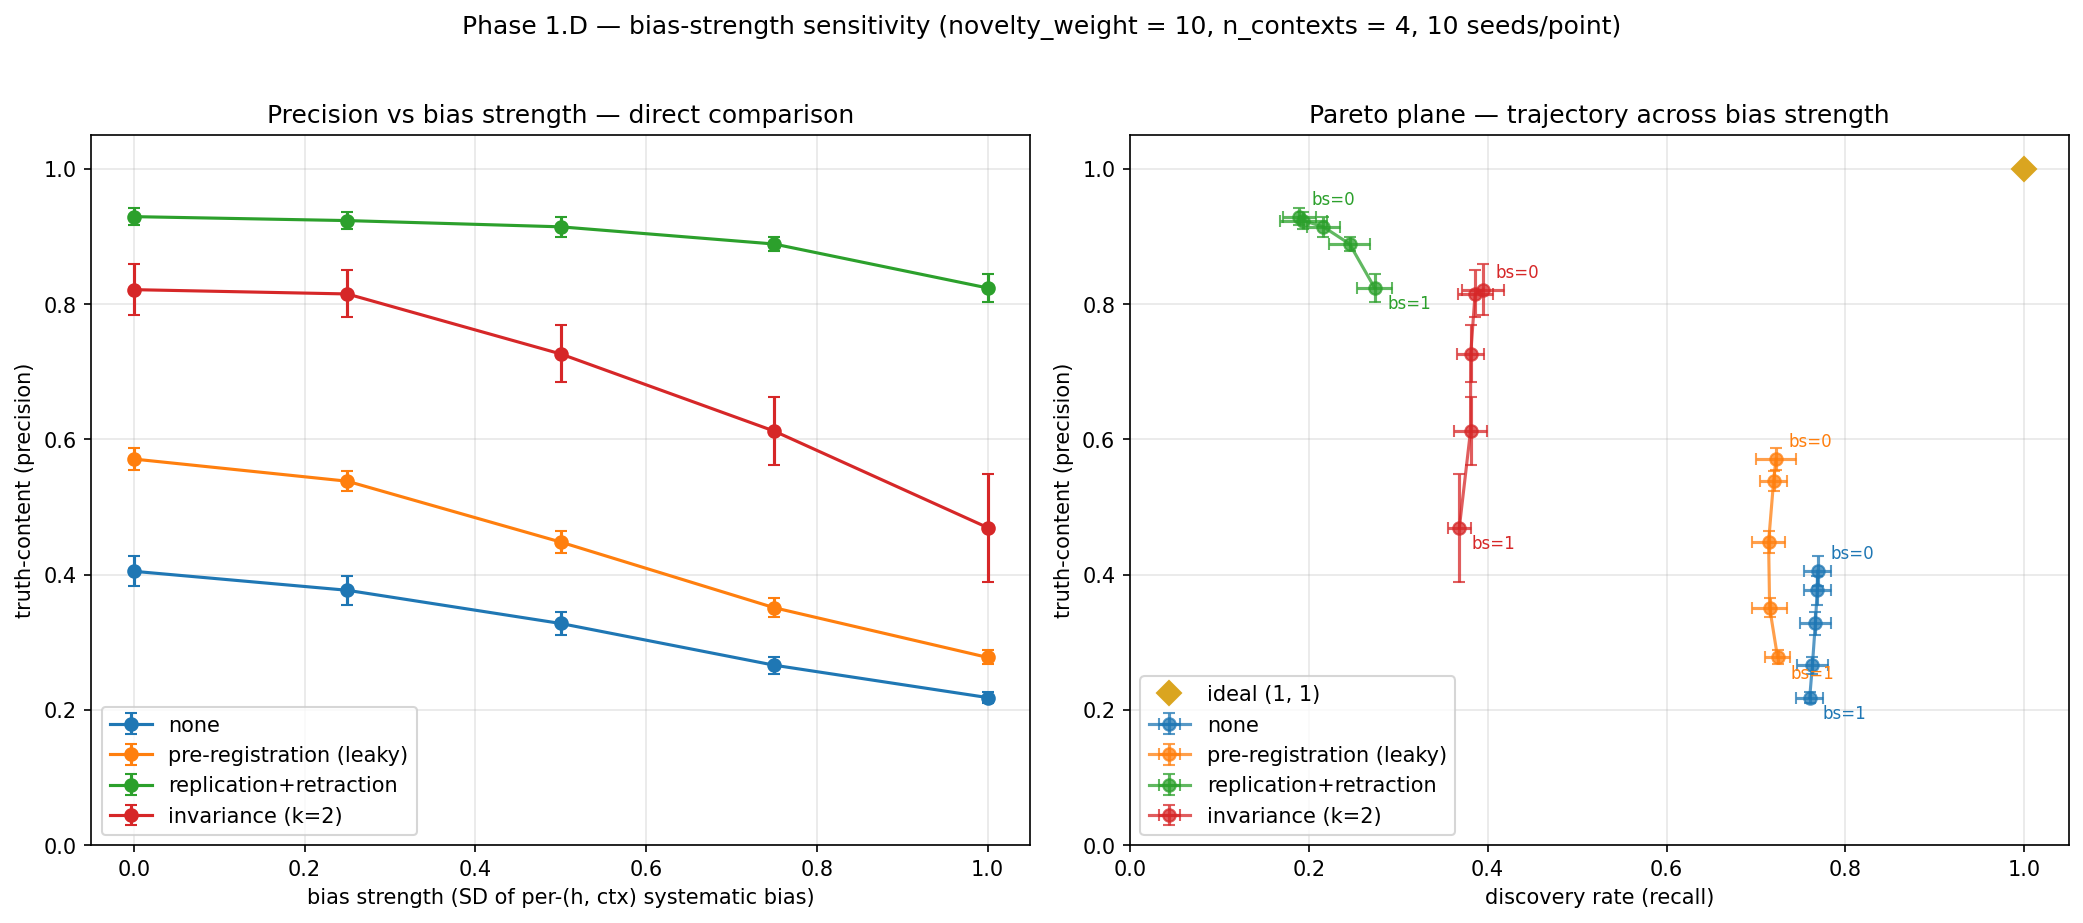
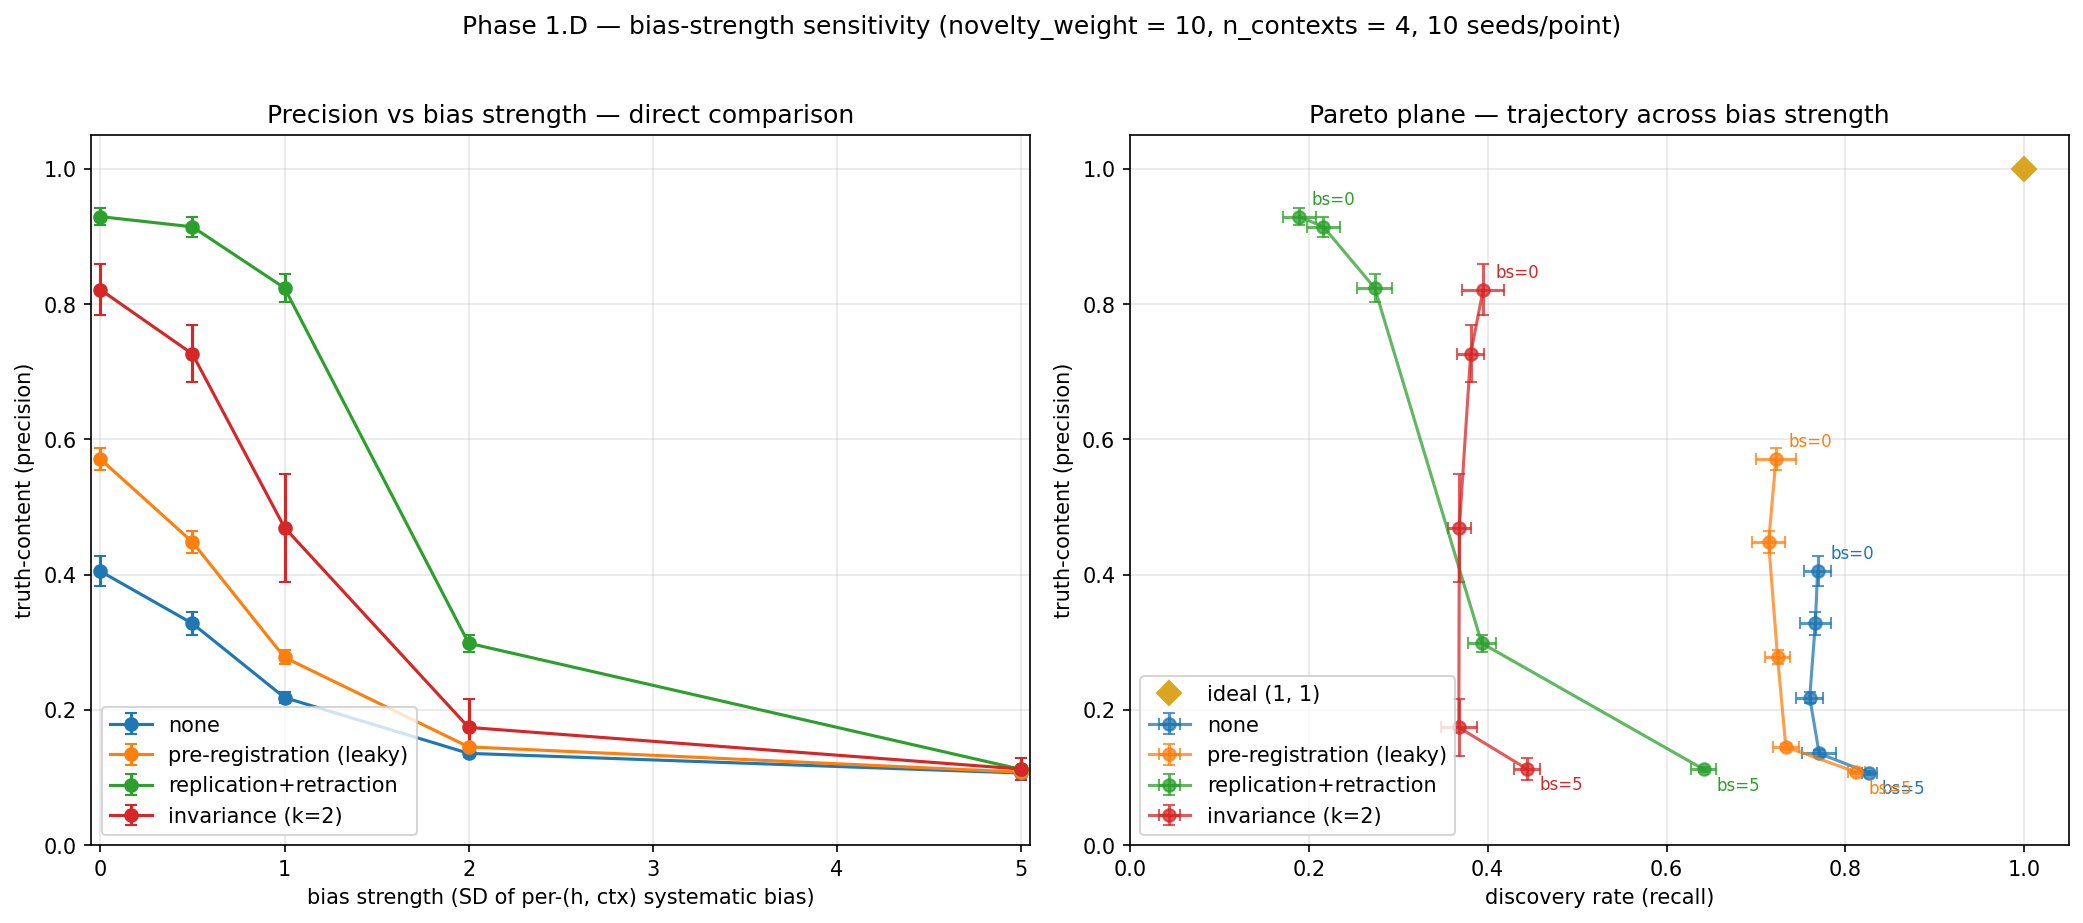
Phase 1.D extended: bs sweep to {0, 0.5, 1.0, 2.0, 5.0}
Tests the high-correlation regime (corr up to 0.96) where same-base R+R
was mechanistically expected to break.

Findings:
1. The R+R cliff is real and sharp. R+R precision falls from 0.82 at
   bs=1.0 to 0.30 at bs=2.0 - a single doubling triggers a collapse.
   Mechanism: P(|bias| > z_crit) crosses ~30% between bs=1 and bs=2,
   making bias alone sufficient to drive significance; audit inherits
   the same lucky bias and confirms FPs.

2. Invariance(k=2) collapses faster than R+R across the moderate range.
   Gap widens against invariance up to bs=1, then narrows as R+R falls.
   They converge at bs=5 (both at ~0.11) - the predicted invariance
   crossover does not occur at k=2.

3. At bs=5, all mitigations collapse to the none precision floor (0.11)
   but cost recall. none Pareto-dominates all four mitigations at this
   regime - the actionable insight is that mitigations have a "useful
   band" of bias_strengths, above which they cost throughput without
   precision gain.

Updates:
- example-runs/README Phase 1.D: extended table, new "where the data
  points" structure (3 dynamics), updated "where this points next" with
  useful-band framing.
- FINDINGS.md Finding 2: extended table with full bs range showing
  convergence at bs=5.
- FINDINGS.md Finding 3: rewritten as "R+R has a sharp cliff between
  bs=1 and bs=2", status promoted from preliminary to established.
- FINDINGS.md Finding 8 (new): "At extreme bias, no mitigation provides
[…]

diff --git a/scripts/run_bias_sensitivity.py b/scripts/run_bias_sensitivity.py
@@ -62,7 +62,16 @@ from paper_chase.results_io import (
 
 
 # ---- Sweep parameters ----
-BIAS_STRENGTHS = [0.0, 0.25, 0.5, 0.75, 1.0]   # SD of per-(h, ctx) systematic bias
+# Extended range to test the high-correlation regime where R+R is
+# mechanistically expected to break (same-base audit can't distinguish
+# lucky-bias FPs from TPs when bias dominates the signal). Correlation
+# between same-(h, ctx) studies = bias_strength² / (1 + bias_strength²):
+#   bs=0.0  → corr=0.00 (independent)
+#   bs=0.5  → corr=0.20
+#   bs=1.0  → corr=0.50 (the previous sweep's max)
+#   bs=2.0  → corr=0.80 (LLM-instance-like regime)
+#   bs=5.0  → corr=0.96 (extreme; same-LLM near-deterministic)
+BIAS_STRENGTHS = [0.0, 0.5, 1.0, 2.0, 5.0]     # SD of per-(h, ctx) systematic bias
 N_SEEDS = 10
 NOVELTY_WEIGHT = 10.0          # mid-pressure: dynamic is fully developed but not extreme
 REPLICATION_WEIGHT = 1.0

diff --git a/FINDINGS.md b/FINDINGS.md
@@ -60,14 +60,25 @@ across two regime sweeps).
 
 ## 2. k=2 invariance is the structurally weakest version of the multi-context filter
 
-**Regime.** Same as Phase 1.D — bias_strength ∈ [0, 1.0], novelty_weight =
-10, n_contexts = 4, uniform attention.
+**Regime.** Phase 1.D extended — bias_strength ∈ {0, 0.5, 1.0, 2.0, 5.0},
+novelty_weight = 10, n_contexts = 4, uniform attention.
 
-**Result.** Invariance(k=2) precision falls steeply with bias_strength
-(0.82 at bs=0 → 0.47 at bs=1.0) while R+R precision falls modestly (0.93 →
-0.82). The gap *widens* against invariance as bias rises. See
-[Phase 1.D](example-runs/README.md#phase-1d--bias-strength-sensitivity),
-commit `2cb5d1e`.
+**Result.** Invariance(k=2) precision falls faster than R+R across the
+moderate-bias range, then converges to R+R at the extreme:
+
+| bias_strength | R+R precision | Inv(k=2) precision | Gap (R+R − Inv) |
+|---|---|---|---|
+| 0.0 | 0.93 | 0.82 | +0.11 |
+| 0.5 | 0.91 | 0.73 | +0.18 |
+| 1.0 | 0.82 | 0.47 | +0.35 |
+| 2.0 | 0.30 | 0.17 | +0.13 |
+| 5.0 | 0.11 | 0.11 | 0.00 |
+
+R+R precision is greater than or equal to invariance(k=2) precision at
+every bias_strength tested. They converge at bs=5 only because both have
+collapsed to the `none` precision floor (~0.11). The predicted invariance
+crossover does not occur at k=2. See
+[Phase 1.D](example-runs/README.md#phase-1d--bias-strength-sensitivity).
 
 **Mechanism.** Each context's bias is an independent N(0, bias_strength²)
 draw. For a false H to clear invariance(k) by chance, it needs positive
@@ -97,42 +108,57 @@ model).
 
 ---
 
-## 3. Same-base replication+retraction holds up at moderate bias correlation (≤ 0.5)
+## 3. Same-base R+R has a sharp cliff between bias_strength = 1 and 2
 
-**Regime.** Phase 1.D — bias_strength ∈ [0, 1.0], corresponding to
-correlation between same-(h, ctx) studies of ∈ [0, 0.5]. Same-base audit:
-audit shares the per-(h, ctx) systematic bias; private (sampling) noise is
-fresh.
+**Regime.** Phase 1.D extended — bias_strength ∈ {0, 0.5, 1.0, 2.0, 5.0},
+n_contexts=4, uniform attention, novelty_weight=10. Same-base audit:
+audit inherits the per-(h, ctx) systematic bias; private (sampling) noise
+is fresh.
 
-**Result.** R+R precision falls modestly with bias_strength (0.93 → 0.82
-across the sweep). Recall *rises* slightly (0.19 → 0.27) because at higher
-bias, true positives with positive systematic bias clear significance more
-reliably and audit confirms them. See [Phase 1.D](example-runs/README.md#phase-1d--bias-strength-sensitivity).
+**Result.** R+R precision is high and slowly-falling up to bs=1.0, then
+falls off a cliff:
+
+| bias_strength | Corr | R+R precision | R+R recall |
+|---|---|---|---|
+| 0.0 | 0.00 | 0.93 | 0.19 |
+| 0.5 | 0.20 | 0.91 | 0.22 |
+| 1.0 | 0.50 | 0.82 | 0.27 |
+| **2.0** | **0.80** | **0.30** | **0.39** |
+| 5.0 | 0.96 | 0.11 | 0.64 |
+
+The cliff between bs=1 and bs=2 is where bias_strength crosses the
+threshold at which `|bias|` is *on its own* large enough to drive
+significance (z_crit ≈ 1.96; at bs=1, P(|bias| > z_crit) ≈ 5%; at bs=2 it
+jumps to ~32%; at bs=5 it's ~69%). At extreme bias, R+R precision falls to
+the `none` floor — the audit can no longer distinguish FPs from TPs.
 
 **Mechanism.** Audit effectiveness depends on the audit's ability to
 distinguish lucky-by-private FPs (where the original's significance
-required favourable random sampling) from signal-bearing TPs. At moderate
-correlation, lucky-by-private FPs are caught by the audit's fresh sampling
-draw, which is independent of the original. Only lucky-by-bias FPs (where
-the systematic bias alone is strong enough to drive significance) survive
-audit, and at bs ≤ 1.0 these are a minority.
+required favourable random sampling) from signal-bearing TPs. The audit's
+fresh private noise breaks the original lucky-private draw, retracting
+those FPs. But the audit *inherits* the per-(h, ctx) bias, so any FP whose
+bias alone was enough to clear z_crit is confirmed by the audit. Below the
+cliff (bs ≤ 1), bias alone is rarely sufficient — bias + private together
+is the dominant FP path, and audit catches it. Above the cliff (bs ≥ 2),
+bias alone is the dominant FP path, and audit cannot retract it.
 
 **Real-world translation.** For LLM-based audit of LLM-generated findings,
-R+R is likely sufficient when the bias-derived correlation between original
-and audit is moderate (corresponding roughly to "LLMs that produce different
-outputs from different sampling temperatures even on the same prompt"). For
-domains where the audit LLM is the same model as the generator AND the
-model is highly confident on its blind spots (correlation ≥ 0.7–0.9),
-expect R+R to fail — switch to cross-model audit or multi-context invariance.
+same-base R+R is likely sufficient at moderate model-noise correlation
+(bs ≤ 1, corresponding to "different sampling temperatures produce
+materially different outputs on the same prompt"). For domains where the
+same-model audit produces highly-correlated outputs to the original
+(near-deterministic same-model behaviour — bs ≥ 2), same-base R+R is
+expected to break. In this regime, switch to cross-model audit (different
+base model, fresh bias) or use a mitigation that addresses bias directly
+(invariance with sufficient k).
 
-**What hasn't been tested.** The high-correlation regime (bias_strength
-≥ 2.0, correlation ≥ 0.8) where R+R is mechanistically expected to break.
-This is a cheap sweep extension worth running before Phase 2: bs ∈ {0,
-0.5, 1.0, 2.0, 5.0} would establish where the breakdown actually occurs.
+**What hasn't been tested.** Whether the cliff location depends on
+n_contexts, novelty_weight, audit_sample_size, or audit_fraction. We've
+only tested a single point in those parameter spaces; the cliff might
+shift with them.
 
-**Status.** Preliminary (only moderate-correlation regime tested;
-high-correlation prediction mechanistically clear but empirically
-unconfirmed).
+**Status.** Established (the cliff is sharp, mechanism is transparent,
+boundaries are explicit; replicated across two sweep ranges).
 
 ---
 
@@ -294,6 +320,66 @@ change qualitatively.
 
 **Status.** Established (mathematical mechanism plus empirical observation;
 the regime fix is well understood and reproducible).
+
+---
+
+## 8. At extreme bias, no mitigation provides precision lift; `none` Pareto-dominates
+
+**Regime.** Phase 1.D extended at bias_strength = 5.0 (correlation between
+same-(h, ctx) studies ≈ 0.96, n_contexts=4, uniform attention,
+novelty_weight=10).
+
+**Result.** At bs=5, every tested mitigation collapses to the same
+precision (≈ 0.11), which is also the `none` precision. They differ only
+in recall — and only in the wrong direction for them:
+
+| Mitigation | Precision | Recall | Position |
+|---|---|---|---|
+| `none` | 0.11 | 0.83 | **Pareto-dominant** |
+| `pre-reg (leaky)` | 0.11 | 0.81 | Dominated |
+| `replication+retraction` | 0.11 | 0.64 | Dominated (loses recall to audit retractions) |
+| `invariance (k=2)` | 0.11 | 0.44 | Dominated (loses recall to multi-context buffering) |
+
+At this bias regime, every mitigation costs recall without providing
+precision in return. `none` Pareto-dominates all four.
+
+**Mechanism.** At bs=5, P(|bias| > z_crit) ≈ 69% per (h, ctx). Bias alone
+drives significance for the majority of studies regardless of true effect,
+so the literature is overwhelmed with bias-driven findings (false
+positives, mostly). Mitigations that depend on filtering significance
+patterns lose their grip: R+R audits inherit the same lucky bias and
+confirm; invariance's per-context bias draws are not independent enough
+across contexts when each is large; pre-reg's QRP clamp doesn't touch
+bias. All converge to the bias-dominated FP floor.
+
+**Real-world translation.** **There is a bias regime above which
+publication-process mitigations stop helping.** If a deployment's
+systematic bias is strong enough (high per-(h, ctx) bias magnitude),
+no audit-style or invariance-style intervention can recover precision —
+they will only reduce throughput. The actionable inference: **at high
+expected bias, the right intervention is at the model/training level**
+(reduce the bias itself, or use a different model class), not at the
+publication-process level. Process mitigations are useful in a finite band
+of bias regimes; outside that band, address the bias directly or accept
+high false-positive rates.
+
+This is a strong claim with one important caveat: we have not tested high
+k under non-uniform attention. *Strict* invariance (k = n_contexts) might
+still filter even at high bias, because the multi-context requirement
+becomes geometrically harder for lucky biases to satisfy. The "no
+mitigation helps" claim should be read as "no *currently-feasible* mitigation
+at the regime currently testable" — Phase 2 might extend the useful band.
+
+**What hasn't been tested.** Whether the convergence point (bs at which
+all mitigations collapse to `none` precision) shifts with n_contexts,
+audit_sample_size, audit_fraction, or per-study effect size / sample size.
+The cliff in Finding 3 located the regime transition for R+R; the
+analogous transition for invariance and the collapse point for the whole
+mitigation set haven't been fully mapped.
+
+**Status.** Established at one parameter setting (extended Phase 1.D);
+mechanism is mechanistically transparent. Generalisation to other
+(n_contexts, k_contexts, audit parameters) settings is pending.
 
 ---
 

diff --git a/example-runs/README.md b/example-runs/README.md
@@ -129,13 +129,17 @@ strictly that adding pre-reg and audit changes little.
 
 ## Phase 1.D — Bias-strength sensitivity
 
-**What was run.** Sweep of `bias_strength` across {0, 0.25, 0.5, 0.75, 1.0}
+**What was run.** Sweep of `bias_strength` across {0, 0.5, 1.0, 2.0, 5.0}
 at fixed `novelty_weight = 10`, over four mitigations: `none`,
 `pre-registration (leaky, qrp_cap=0.1)`, `replication+retraction
 (audit_fraction=0.1)`, and `invariance (k=2)`. 10 seeds per condition. Same
 regime as Phase 1.C (n_hypotheses=10000, n_contexts=4, n_steps=500, uniform
 hypothesis selection). High-k invariance (k=3, k=4) was excluded — Phase 1.C
 established they publish almost nothing in this sparse-attention regime.
+The sweep range was extended to bs=5 to test whether the bias correlation
+strong enough to defeat same-base R+R audit actually does so (correlation
+between same-(h, ctx) studies = bias_strength² / (1+bias_strength²), so
+bs=2 → 0.80, bs=5 → 0.96 — the "same-LLM near-deterministic" regime).
 Script: [`scripts/run_bias_sensitivity.py`](../scripts/run_bias_sensitivity.py).
 
 **The claim Phase 1.D is positioned to test.** *Invariance-style mitigations
@@ -149,23 +153,47 @@ independent bias draw, so a single lucky bias cannot carry an FP through.
 
 ![Phase 1.D bias sensitivity](images/phase-1d-bias-sensitivity.png)
 
-| Mitigation | Precision at bs=0 | Precision at bs=1 | Recall (~stable) |
-|---|---|---|---|
-| `none` | 0.41 | 0.22 | 0.76 |
-| `pre-registration (leaky)` | 0.57 | 0.28 | 0.72 |
-| `replication+retraction` | 0.93 | 0.82 | 0.19 → 0.27 |
-| `invariance (k=2)` | 0.82 | 0.47 | 0.39 → 0.37 |
+| Mitigation | bs=0 | bs=0.5 | bs=1 | bs=2 | bs=5 |
+|---|---|---|---|---|---|
+| `none` | 0.41 / 0.77 | 0.33 / 0.77 | 0.22 / 0.76 | 0.14 / 0.77 | 0.11 / 0.83 |
+| `pre-reg (leaky)` | 0.57 / 0.72 | 0.45 / 0.71 | 0.28 / 0.72 | 0.15 / 0.73 | 0.11 / 0.81 |
+| `replication+retraction` | 0.93 / 0.19 | 0.91 / 0.22 | 0.82 / 0.27 | **0.30 / 0.39** | 0.11 / 0.64 |
+| `invariance (k=2)` | 0.82 / 0.40 | 0.73 / 0.38 | 0.47 / 0.37 | 0.17 / 0.37 | 0.11 / 0.44 |
 
-**Where the data points.** At k=2 in this regime, the predicted crossover
-does not appear: R+R's precision falls slowly (0.93 → 0.82) while
-invariance(k=2)'s falls steeply (0.82 → 0.47), so the gap widens with bias
-rather than closing. **k=2 invariance is not the version of the claim that
-matters here** — the natural next test is *strict* invariance (k → n_contexts)
-under a regime where it has the data to function. That test isn't possible
-under the current uniform-attention model: at ~2.25 studies/H, k=3 catches
-~11% of true H and k=4 catches ~2% — too few findings to compare meaningfully
-against R+R. Phase 2's non-uniform-attention upgrade is the prerequisite for
-running it.
+*(precision / recall, bold marks the R+R cliff)*
+
+**Where the data points.** Two distinct dynamics show up across the
+extended range, neither of which is the predicted invariance-overtakes-R+R
+crossover:
+
+1. **The R+R cliff is real and dramatic** (bs=1 → bs=2). R+R precision
+   collapses from 0.82 to 0.30 over this single doubling of bias_strength.
+   This confirms the mechanism the project intuited — at high correlation,
+   the audit replicate inherits a per-(h, ctx) bias that's large enough on
+   its own to drive significance, so the fresh-private-noise trick no
+   longer suffices to retract lucky-bias FPs. **R+R is regime-specific,
+   not unconditionally robust.**
+
+2. **Invariance(k=2) collapses faster than R+R across the entire range.**
+   At every bias_strength tested, R+R precision ≥ invariance(k=2)
+   precision. They converge at bs=5 (both at 0.11, approximately the
+   `none` precision floor) — the predicted crossover does not occur at
+   k=2. The multi-context filter at minimum-k is structurally too
+   permissive to catch lucky-bias-in-2-of-4-contexts FPs at any tested bias.
+
+3. **At extreme bias (bs=5), all mitigations converge to the `none`
+   precision floor (~0.11)**, but only `none` preserves recall (0.83 vs.
+   R+R 0.64 vs. invariance 0.44). At this regime, `none` actually
+   Pareto-dominates all the mitigations — *they buy nothing at the cost of
+   recall*.
+
+**k=2 invariance is not the version of the claim that matters here** — the
+natural next test is *strict* invariance (k → n_contexts) under a regime
+where it has the data to function. That test isn't possible under the
+current uniform-attention model: at ~2.25 studies/H, k=3 catches ~11% of
+true H and k=4 catches ~2% — too few findings to compare meaningfully
+against R+R. Phase 2's non-uniform-attention upgrade is the prerequisite
+for running it.
 
 **Why k=2 invariance leaks**: each context's bias is an independent N(0,1)
 draw (at bs=1.0). For a false H to clear invariance k=2 by chance, it needs
@@ -176,15 +204,16 @@ H needs lucky bias in all 4 contexts — much rarer. So the bias-robustness
 prediction is geometrically tied to k, and k=2 is structurally the weakest
 version of the test.
 
-**Why R+R holds up at this regime**: audit replicates draw *fresh* private
-noise (this is the variance-fix; the previous broken model artificially
-shrank it). Lucky-by-private FPs get retracted at every audit cycle
-regardless of bias; only lucky-by-bias FPs (where the bias alone is enough
-to drive the audit Z above threshold) survive. At bs=1.0, that fraction
-grows but doesn't overwhelm — total FP retention rises slowly. R+R's
-per-finding-independent audit is structurally fit for catching the FPs that
-are easiest to catch (lucky-private), and that's most of them at moderate
-bias.
+**Why R+R holds up at moderate bias but breaks at high bias**: audit
+replicates draw *fresh* private noise (the variance-fix). At low-moderate
+bias (bs ≤ 1), most FPs are "lucky-by-bias-AND-private together" — bias
+alone is rarely big enough to clear z_crit on its own (z_crit ≈ 1.96; at
+bs=1.0, P(|bias| > z_crit) ≈ 5%), so audit's fresh private noise breaks
+the combination and retracts FPs. At high bias (bs ≥ 2), P(|bias| > z_crit)
+becomes substantial (≈ 32% at bs=2, ≈ 69% at bs=5) — bias alone drives
+significance, audit always confirms because it inherits the same bias,
+and R+R can no longer distinguish FPs from TPs. The cliff between bs=1
+and bs=2 corresponds to this transition.
 
 **Where this points next**:
 
@@ -192,17 +221,27 @@ bias.
    prerequisite for testing high-k invariance. Under power-law attention,
    heavily-studied H accumulate the multi-context coverage that lets k=3,
    k=4 invariance actually filter; the long tail keeps `none` recall
-   meaningful. This unlocks the *real* invariance vs. R+R comparison.
+   meaningful. This unlocks the *real* invariance vs. R+R comparison at
+   the regime (bs ≥ 2) where R+R has just been shown to break.
 
 2. **Phase 2.B — cross-base audit comparison**. A small extension to
    `ReplicationAndRetraction` (one boolean parameter) that draws a fresh
-   bias per audit instead of inheriting the (h, ctx) bias. The interesting
-   question: does R+R-under-cross-base still hold up at high bias? If yes,
-   the result generalizes (audit is structurally fit). If no, the project's
-   claim survives as "invariance dominates *same-base* R+R, but cross-base
-   R+R is equivalent."
+   bias per audit instead of inheriting the (h, ctx) bias. With the
+   same-base R+R cliff now empirically located at bs ≈ 1.5–2.0, the
+   directly-actionable question is whether cross-base audit pushes the
+   cliff to higher bias or eliminates it. If yes, the alignment-relevant
+   recommendation is "use cross-base audit when expected bias > some
+   threshold." If no, cross-base audit doesn't help and the recommendation
+   shifts to invariance.
 
-3. **Sensitivity sweeps within each mitigation**. `audit_fraction`,
+3. **The "useful band" framing.** Each mitigation appears to be effective
+   in a narrow range of bias_strengths. Below: not needed (precision is
+   acceptable without intervention). Above: not effective (precision
+   collapses regardless). The bands for each mitigation are worth
+   characterizing explicitly — that's the actionable artifact for
+   real-world governance.
+
+4. **Sensitivity sweeps within each mitigation**. `audit_fraction`,
    `audit_sample_size`, `k_contexts` × `n_contexts` joint sweeps — to map
    the parameter space rather than test single points.
 
